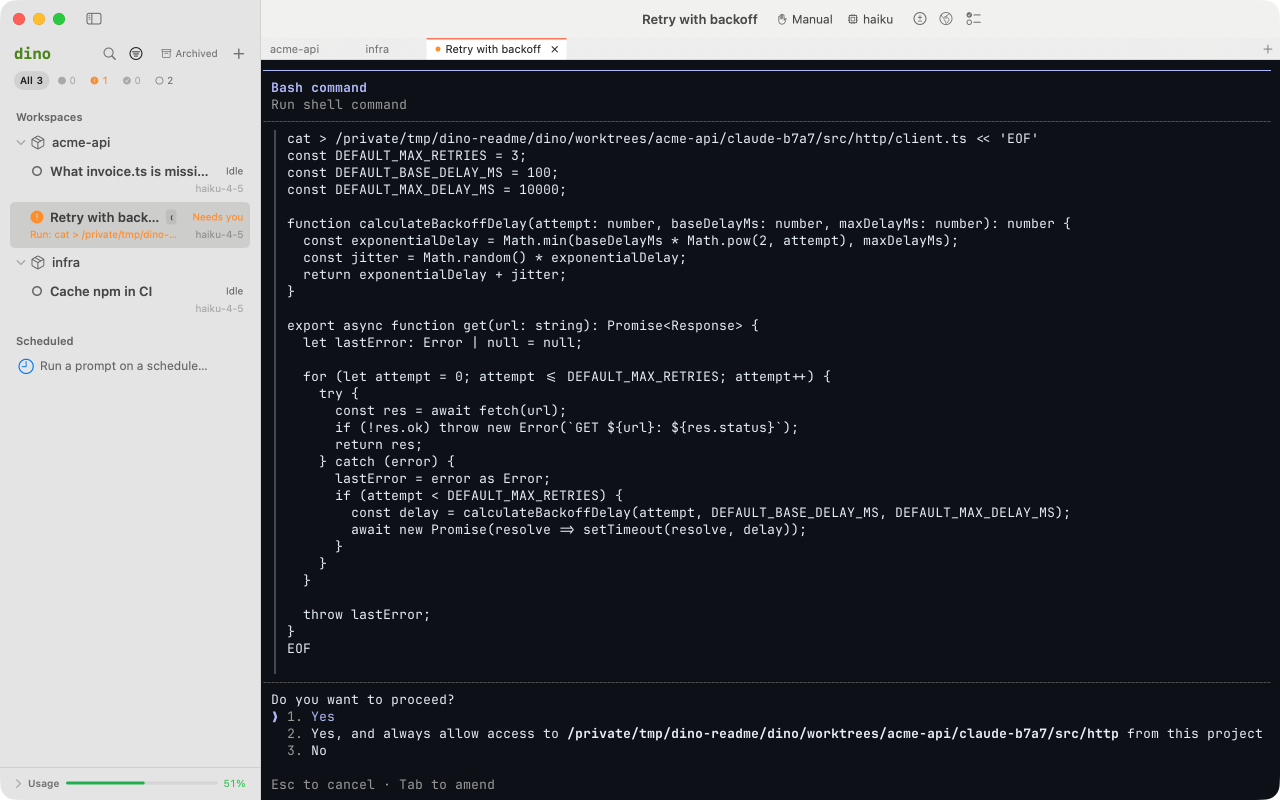
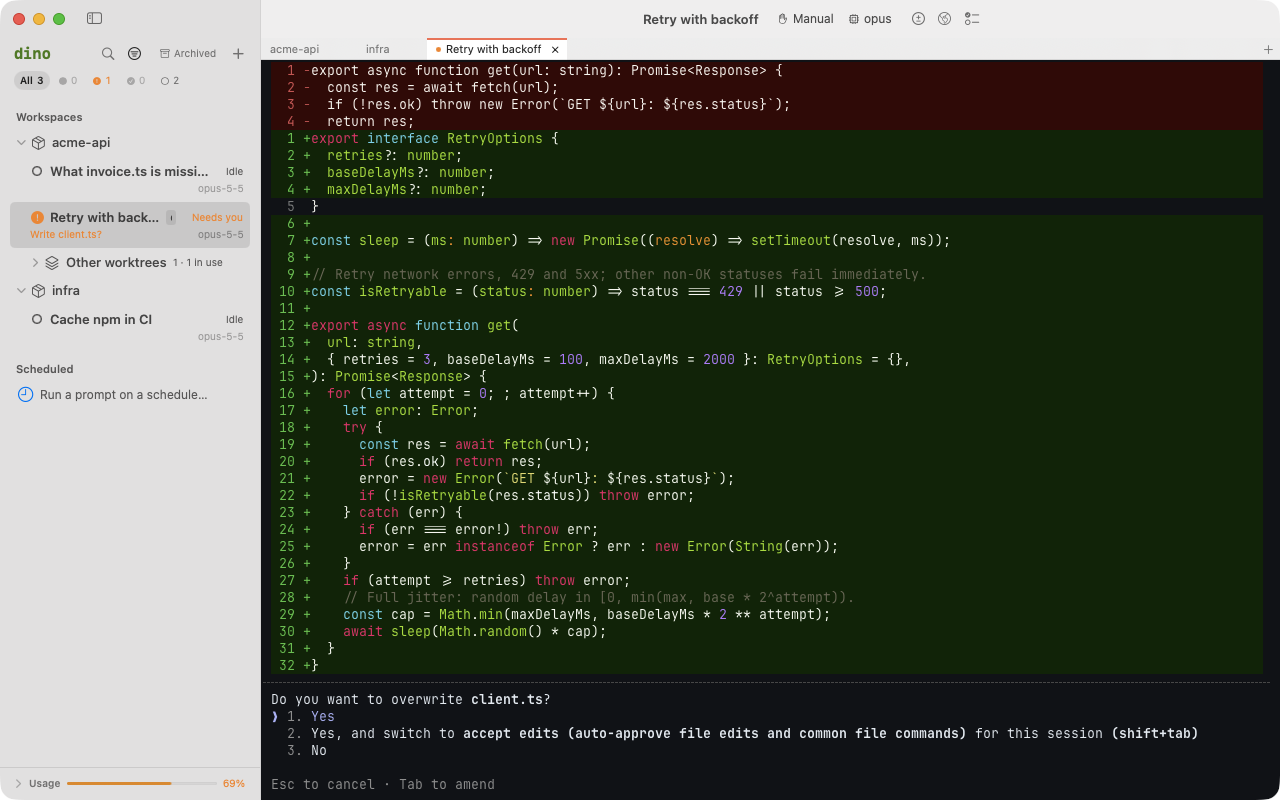
README: the screenshot's Claude Code runs on Opus 5.5 and shows its edit view

diff --git a/README.md b/README.md
@@ -25,7 +25,7 @@
   <picture>
     <source media="(prefers-color-scheme: dark)" srcset="docs/images/screenshot-dark.png">
     <source media="(prefers-color-scheme: light)" srcset="docs/images/screenshot-light.png">
-    <img src="docs/images/screenshot-light.png" width="900" alt="The dino window: Claude Code sessions grouped by project in the sidebar, one of them needing you, and Claude Code in the terminal asking to run a command">
+    <img src="docs/images/screenshot-light.png" width="900" alt="The dino window: Claude Code sessions on Opus 5.5 grouped by project in the sidebar, one of them needing you, and Claude Code in the terminal asking to apply its edit">
   </picture>
 </p>
 
